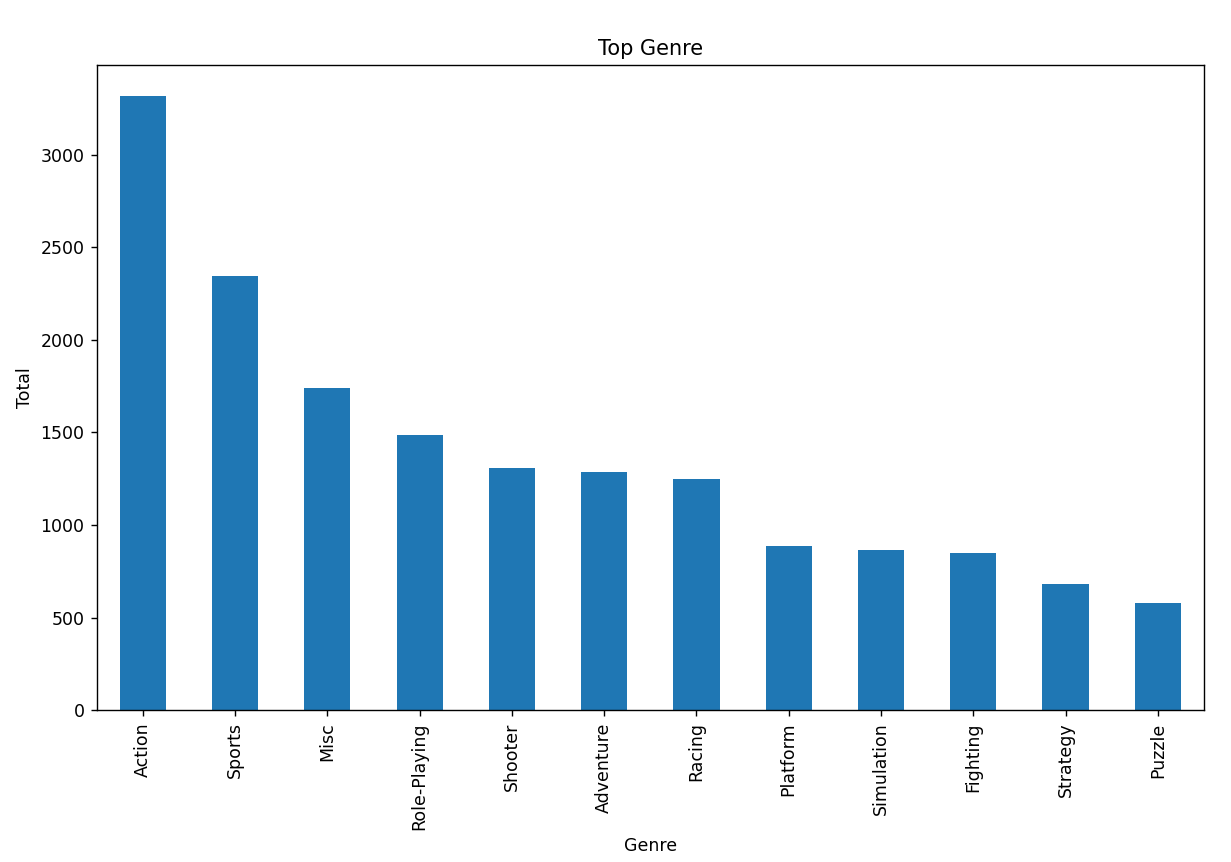
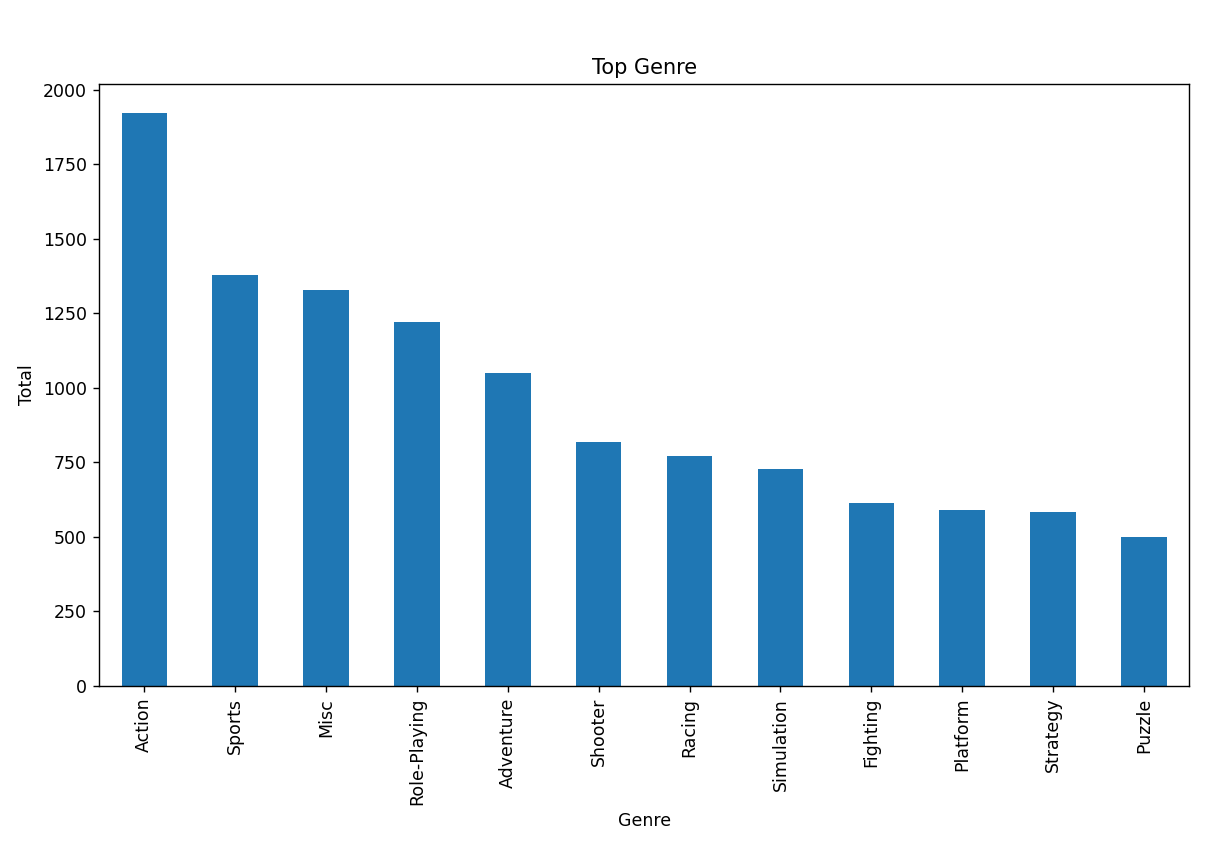
done harusnya

diff --git a/README.md b/README.md
@@ -91,11 +91,11 @@ Dari gambar diatas didapatkan informasi bahwa untuk genre game yang paling banya
 ---
 
 ### Mencari jumlah game dari setiap platform
-Untuk mencari jumlah game dari setiap platsform prosesnya sama dengan sebelumnya, pertama saya melakukan pengelompokan data berdasarkan platform dan menghitung jumlah elemen dari kelompok platform tersebut dengan kode `.groupby("Platform").size()`. 
+Untuk mencari jumlah game dari setiap platsform prosesnya sama dengan sebelumnya, pertama saya melakukan penghapusan untuk nama game yang sama(duplikat) dan menghitung setiap platform pada kolom Platform.
 
 ![topplatform](pic/7.2%20platform.png)
 
-Dari gambar diatas untuk platform dengan game terbanyak adalah DS yaitu dengan 2163 game dan diikuti oleh PS2 dengan 2161 game.
+Dari gambar diatas untuk platform dengan game terbanyak adalah PS2 yaitu dengan 1861 game dan diikuti oleh DS dengan 1807 game.
 
 ---
 
@@ -167,7 +167,11 @@ Dari gambar diatas untuk tahun dengan penjualan terbanyak adalah tahun 2008.
 
 ### Kesimpulan
 
-Dari proses yang saya lakukan dapat disimpulkan untuk game dengan total penjualan terbanyak adalah Wii Sports dengan total 82.74 juta, lalu untuk genre yang paling banyak dibuat dari tahun 1980-2020 adalah Action yaitu sebanyak 1923 game.
+Dari proses yang saya lakukan dapat disimpulkan untuk game dengan total penjualan terbanyak adalah Wii Sports dengan total 82.74 juta, lalu untuk genre yang paling banyak dibuat dari tahun 1980-2020 adalah Action yaitu sebanyak 1923 game. Dan untuk platform yang memiliki game terbanyak adalah PS2 dengan jumlah game mencapai 1861.
 
-SOON!!!
-(Revisi platform nanti)
+Publisher yang merilis game paling banyak dari hasil analisis ini adalah Namco Bandai Game, dimana publisher ini merilis 776 game berbeda dan untuk game yang paling banyak dijual adalah Namco Museum, The Witcher 3: Wild Hunt dan Namco Museum: 50th Anniversary.
+
+Tahun 2009 adalah tahun dimana perilisan video game paling banyak yaitu sebanyak 1431 game. Lalu untuk game dengan penjualan tertinggi di tahun 2009 adalah Wii Sports Resort sebanyak 33 juta penjualan. Namun untuk hal itu tidak membuat tahun 2009 menjadi tahun dengan penjualan game terbanyak. Untuk tahun dengan penjualan game terbanyak berada di tahun 2008.
+
+Region yang memiliki penjualan game terbanyak adalah Amerika Utara dengan total penjualan 4,3 miliar lebih penjualan diikuti dengan Uni Eropa dengan total 2,4 miliar penjualan.
+
